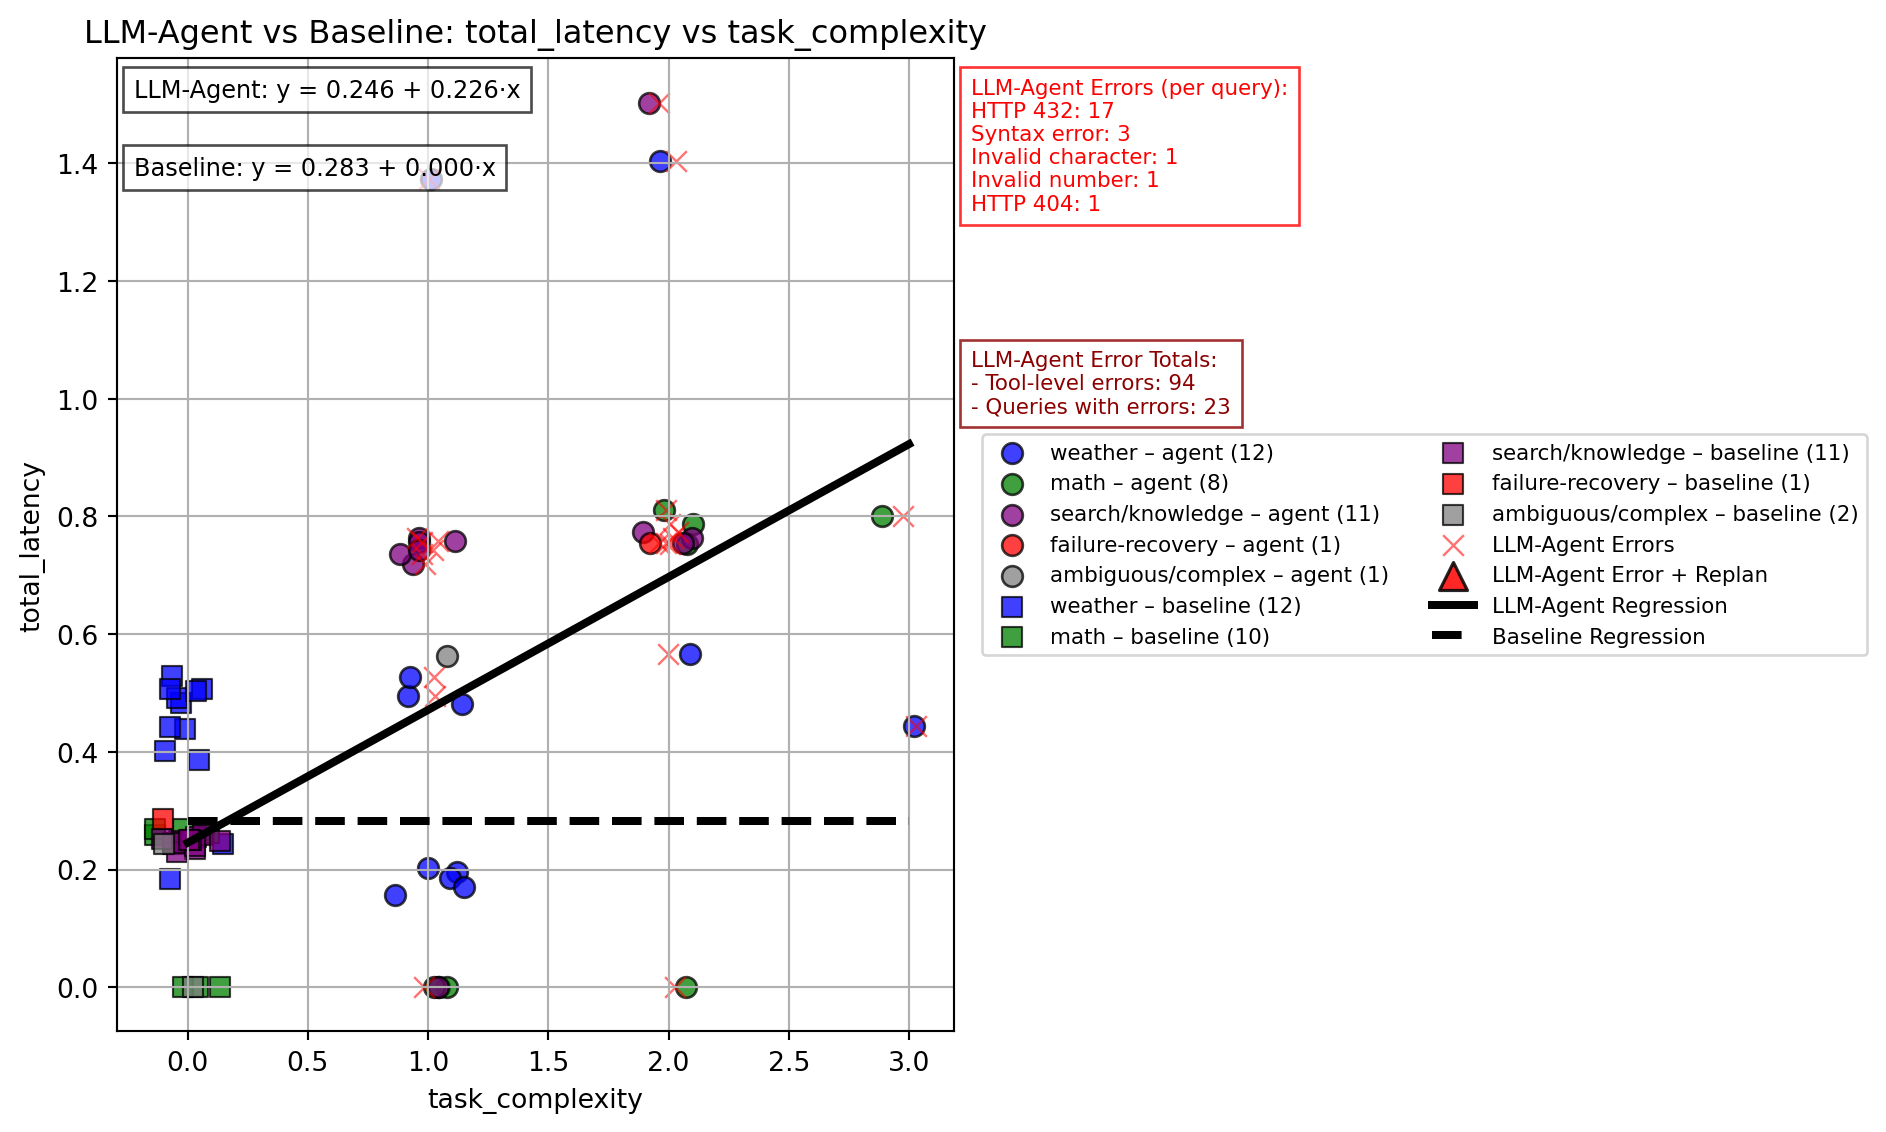
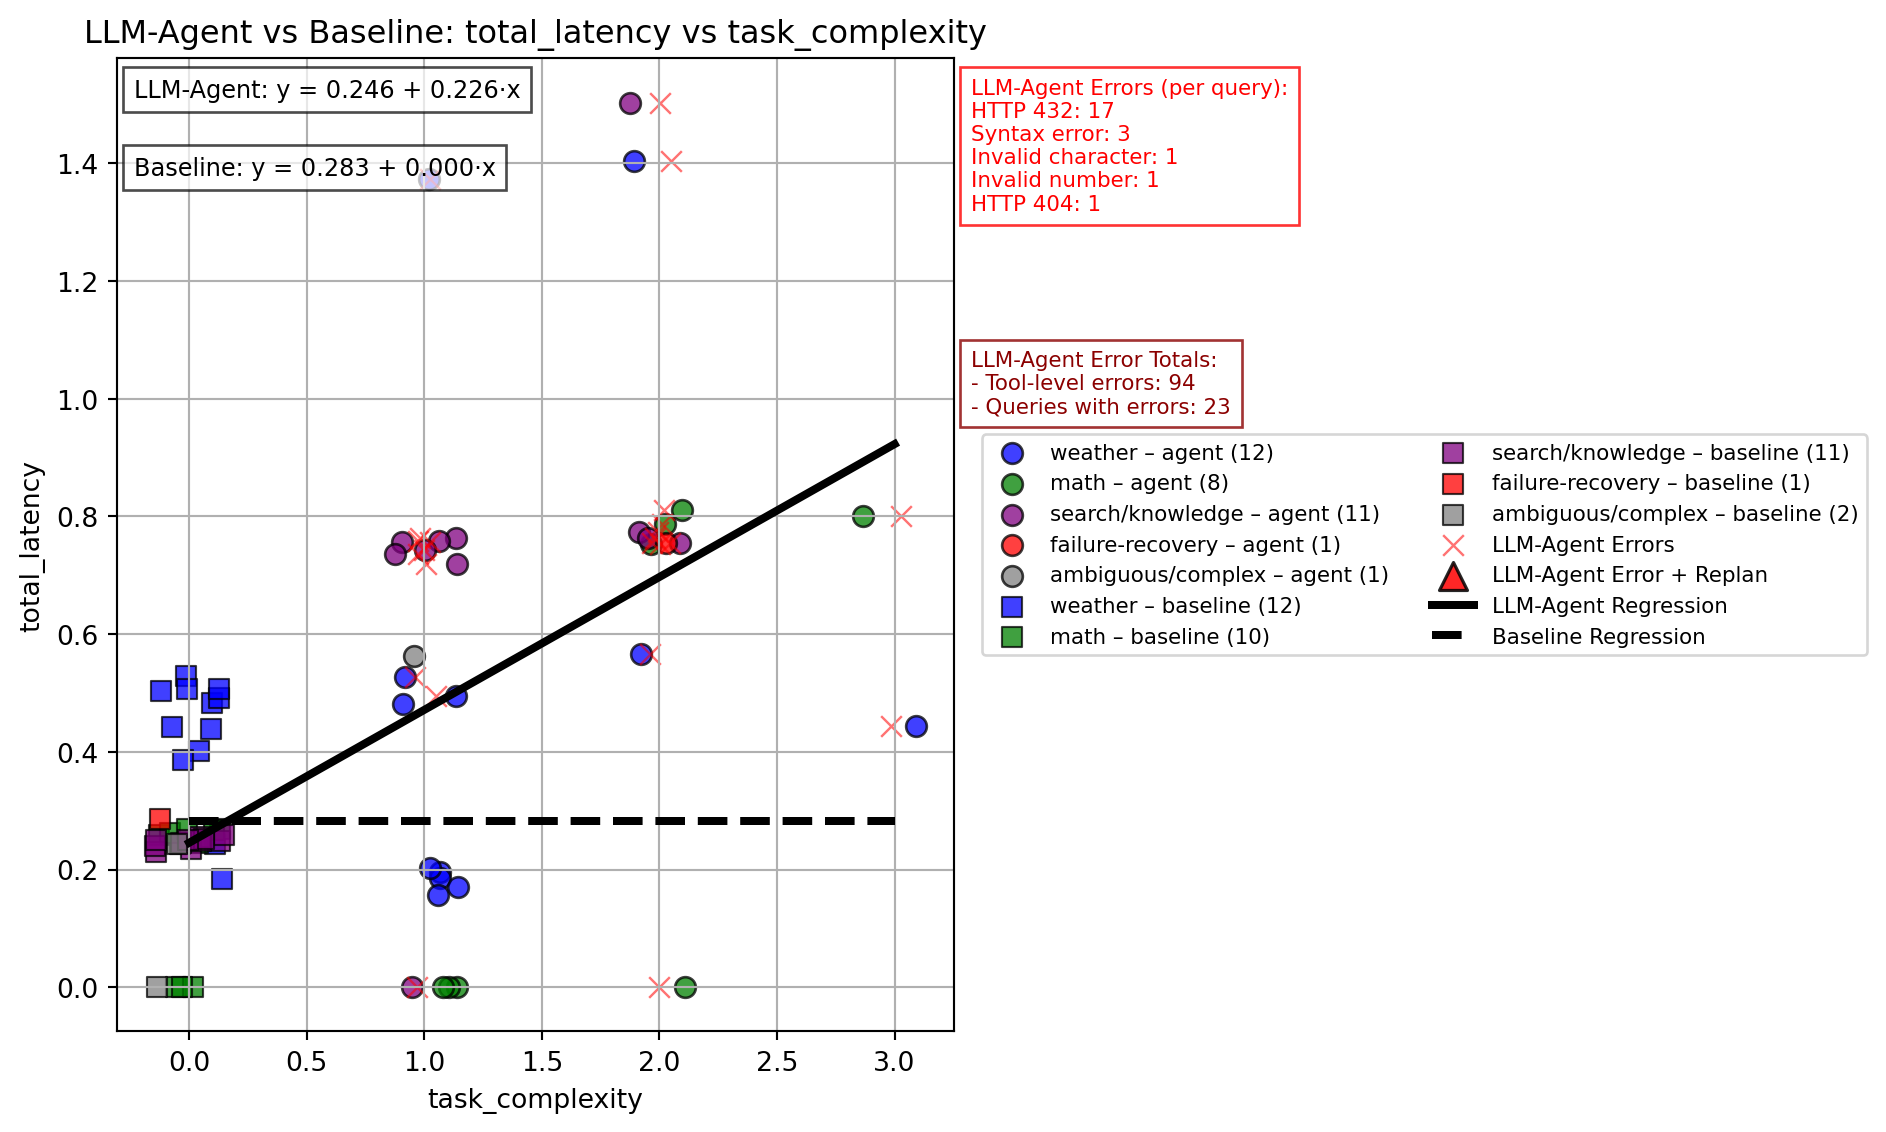
Publish the report via GitHub Pages
Render the HTML report to index.html so it can be served from the repo
root, and add .nojekyll so Pages serves Quarto's asset directory as-is
instead of running the output through Jekyll.

- format.html.output-file: index.html in the qmd
- Remove the now-duplicate LLM-Agents.html
- README: link the live report and correct the layout section

diff --git a/index.html b/index.html
@@ -533,7 +533,7 @@ div.csl-indent {
 <p>The benchmark calls three live APIs and rewrites the result files, so it only runs when explicitly asked for. By default this document is built from the committed results of the original run (36 queries), which keeps the analysis below reproducible without spending API quota.</p>
 <p>To re-run the benchmark end to end – wiping the old .JSONL/.CSV files and regenerating them via ‘Agents_Multi_step.py’ – render with <code>RUN_BENCHMARK=1</code>.</p>
 <p>Note that the original results were produced with Groq’s <code>llama-3.3-70b-versatile</code>, which has since been decommissioned. A re-run therefore uses a different model (set <code>GROQ_MODEL</code> in <code>.env</code>) and will not reproduce the exact numbers reported here.</p>
-<div id="bfc6cf04" class="cell" data-execution_count="1">
+<div id="70ff3324" class="cell" data-execution_count="1">
 <div class="code-copy-outer-scaffold"><div class="sourceCode cell-code" id="cb1"><pre class="sourceCode python code-with-copy"><code class="sourceCode python"><span id="cb1-1"><a href="#cb1-1" aria-hidden="true" tabindex="-1"></a><span class="im">import</span> os</span>
 <span id="cb1-2"><a href="#cb1-2" aria-hidden="true" tabindex="-1"></a></span>
 <span id="cb1-3"><a href="#cb1-3" aria-hidden="true" tabindex="-1"></a><span class="co"># The benchmark calls three live APIs (Groq, Tavily, OpenWeather) and</span></span>
@@ -592,7 +592,7 @@ Set RUN_BENCHMARK=1 to re-run the live benchmark instead.
 </section>
 <section id="does-the-complexity-of-tool-calls-required-to-complete-a-task-of-the-task-predict-total_latency" class="level2">
 <h2 class="anchored" data-anchor-id="does-the-complexity-of-tool-calls-required-to-complete-a-task-of-the-task-predict-total_latency">’Does the complexity(# of tool calls required to complete a task) of the task predict total_latency?</h2>
-<div id="d20ab20e" class="cell" data-execution_count="2">
+<div id="efe6463e" class="cell" data-execution_count="2">
 <div class="code-copy-outer-scaffold"><div class="sourceCode cell-code" id="cb3"><pre class="sourceCode python code-with-copy"><code class="sourceCode python"><span id="cb3-1"><a href="#cb3-1" aria-hidden="true" tabindex="-1"></a><span class="im">from</span> LLM_Agent_pipeline <span class="im">import</span> run_regression_comparison</span>
 <span id="cb3-2"><a href="#cb3-2" aria-hidden="true" tabindex="-1"></a>run_regression_comparison(</span>
 <span id="cb3-3"><a href="#cb3-3" aria-hidden="true" tabindex="-1"></a>    predictor<span class="op">=</span><span class="st">"task_complexity"</span>,</span>
@@ -635,7 +635,7 @@ Name: count, dtype: int64</code></pre>
 </section>
 <section id="does-the-number-of-toolsactual-of-tool-calls-the-agent-executed-used-predict-total-task-latency" class="level2">
 <h2 class="anchored" data-anchor-id="does-the-number-of-toolsactual-of-tool-calls-the-agent-executed-used-predict-total-task-latency">’Does the number of tools(actual # of tool calls the agent executed) used predict total task latency?</h2>
-<div id="1e383df3" class="cell" data-execution_count="3">
+<div id="247c60f0" class="cell" data-execution_count="3">
 <div class="code-copy-outer-scaffold"><div class="sourceCode cell-code" id="cb5"><pre class="sourceCode python code-with-copy"><code class="sourceCode python"><span id="cb5-1"><a href="#cb5-1" aria-hidden="true" tabindex="-1"></a>run_regression_comparison(</span>
 <span id="cb5-2"><a href="#cb5-2" aria-hidden="true" tabindex="-1"></a>    predictor<span class="op">=</span><span class="st">"tool_count"</span>,</span>
 <span id="cb5-3"><a href="#cb5-3" aria-hidden="true" tabindex="-1"></a>    outcome<span class="op">=</span><span class="st">"total_latency"</span></span>
@@ -677,7 +677,7 @@ Name: count, dtype: int64</code></pre>
 </section>
 <section id="does-api-difficultycalculator1-web-search-2-weather-3-predict-total_latency" class="level2">
 <h2 class="anchored" data-anchor-id="does-api-difficultycalculator1-web-search-2-weather-3-predict-total_latency">Does API difficulty(Calculator:1, Web search: 2, Weather: 3) predict total_latency?</h2>
-<div id="33ff7f33" class="cell" data-execution_count="4">
+<div id="5b664356" class="cell" data-execution_count="4">
 <div class="code-copy-outer-scaffold"><div class="sourceCode cell-code" id="cb7"><pre class="sourceCode python code-with-copy"><code class="sourceCode python"><span id="cb7-1"><a href="#cb7-1" aria-hidden="true" tabindex="-1"></a>run_regression_comparison(</span>
 <span id="cb7-2"><a href="#cb7-2" aria-hidden="true" tabindex="-1"></a>    predictor<span class="op">=</span><span class="st">"api_difficulty"</span>,</span>
 <span id="cb7-3"><a href="#cb7-3" aria-hidden="true" tabindex="-1"></a>    outcome<span class="op">=</span><span class="st">"total_latency"</span></span>

diff --git a/README.md b/README.md
@@ -7,6 +7,8 @@ This project builds two systems on the **same underlying model** and benchmarks
 them on an identical task set, so the only variable is agentic capability. The
 committed results were produced with `llama-3.3-70b-versatile`, served via Groq.
 
+**[Read the rendered report](https://lighting8282.github.io/LLM-Agent-vs-Baseline-LLM/)** · [PDF](LLM-Agents.pdf)
+
 > **Research question:** How well does an LLM agent handle multi-step tasks that
 > require self-recovery, API access, and replanning, compared to a baseline LLM
 > that can do none of these?
@@ -65,7 +67,9 @@ tasks actually need multi-step reasoning.
 
 ```
 LLM-Agents.qmd           Quarto source for the full report
-LLM-Agents.html/.pdf     Rendered report (HTML needs LLM-Agents_files/)
+index.html               Rendered report, served via GitHub Pages
+LLM-Agents.pdf           The same report as a PDF
+LLM-Agents_files/        Figures and CSS the HTML report depends on
 Agents_Multi_step.py     Agent loop, baseline, tools, logging, benchmark driver
 LLM_Agent_pipeline.py    Regression analysis and comparison plots
 agent_runs.jsonl         122 tool-call records across 33 agent queries
@@ -98,8 +102,8 @@ quarto render LLM-Agents.qmd
 ```
 
 This builds from the committed results and makes no API calls, so it works
-straight after a clone. The rendered `LLM-Agents.html` and `LLM-Agents.pdf` in
-this repo were produced by exactly that command.
+straight after a clone. The `index.html` and `LLM-Agents.pdf` in this repo were
+produced by exactly that command.
 
 ### Re-running the benchmark
 
